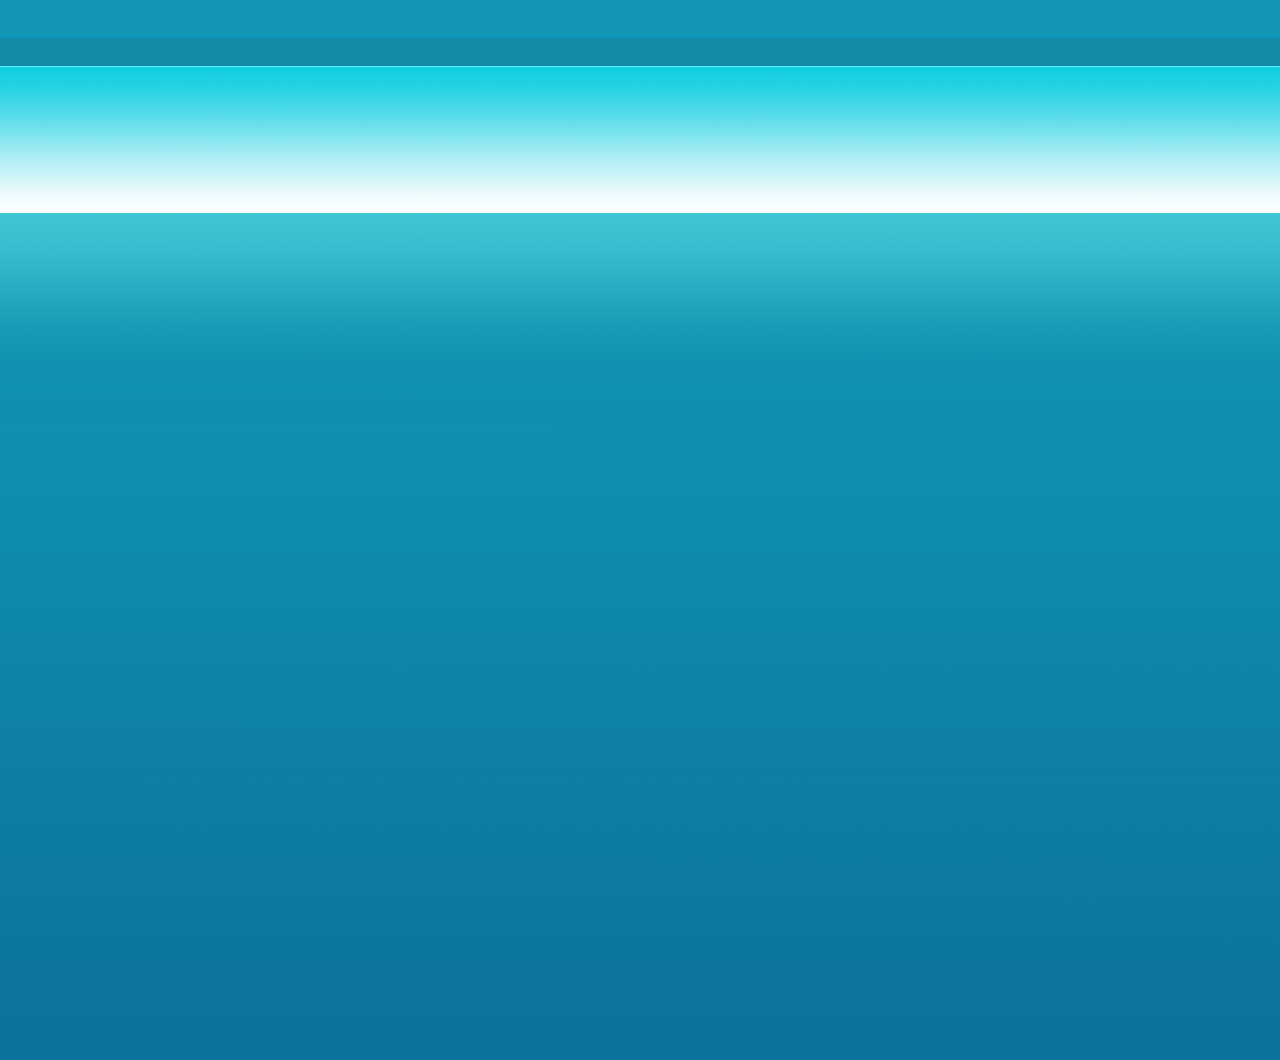
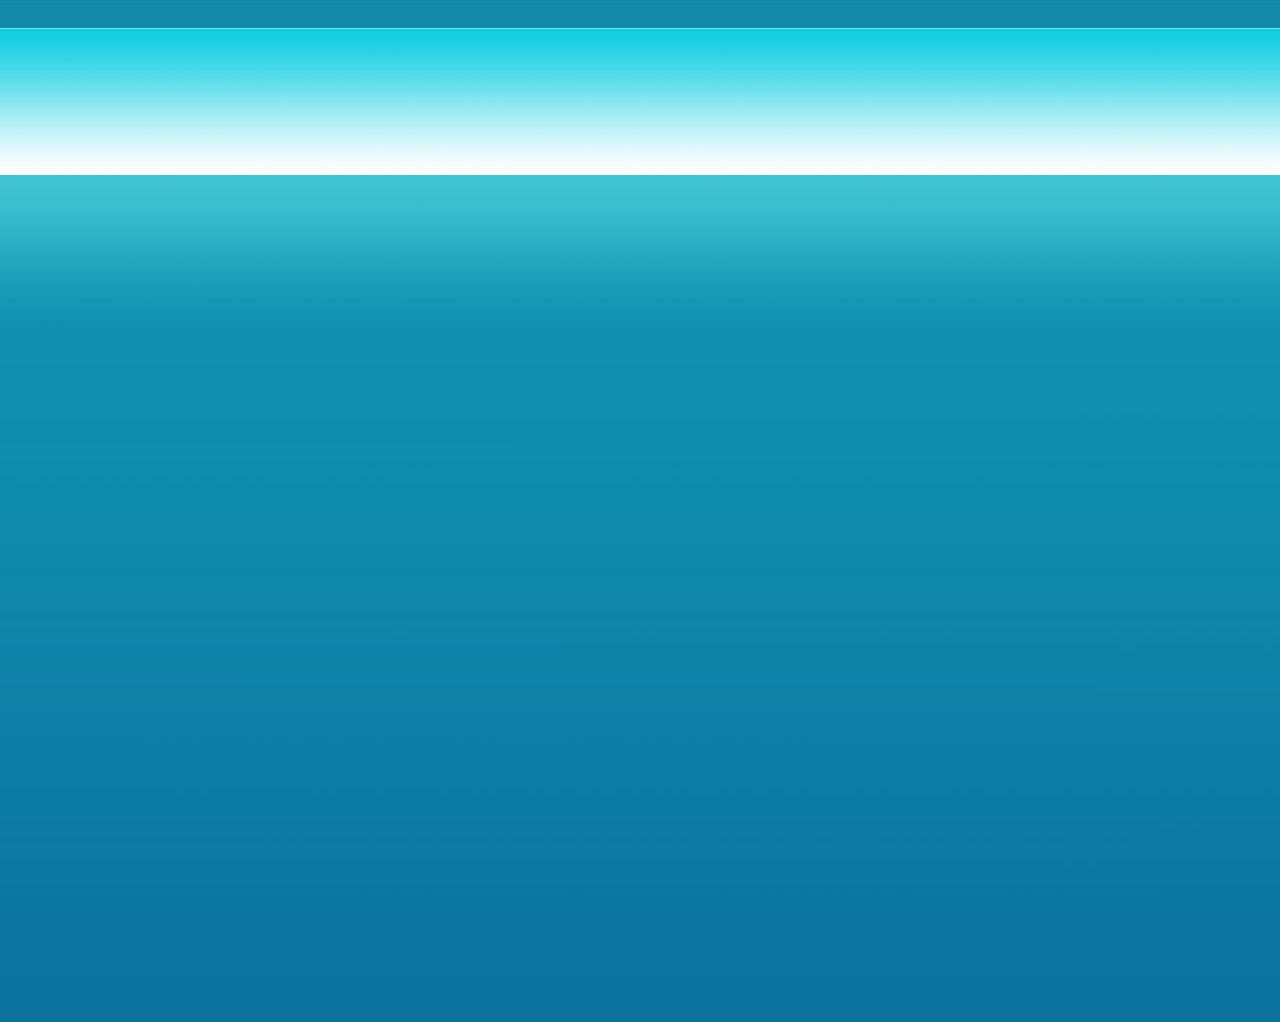
changed

Changed region(s): [[0.0, 0.0303, 1.0, 0.2123]]

diff --git a/css/style.css b/css/style.css
@@ -12,10 +12,9 @@ body {
 }
 
 .wrapper {
-	margin: 39px auto 0;
+	margin: 0 auto;
 	width: 998px; 
-	background-image: url(../img/white.jpg);
-	background-repeat: no-repeat;
+	background-color: #fff;
 	position: relative;
 	overflow: hidden;
 	border-bottom: 3px solid black;
@@ -26,7 +25,7 @@ body {
 /* HEADER */
 
 .header {
-	 padding: 10px 20px 0 0;
+	 padding: 9px 20px 0 0;
 	 color: #128aa7; 
 	 font-family: Tahoma, Arial, sans-serif;
 }
@@ -38,18 +37,26 @@ body {
 .contacts{
 	 list-style: none;
 	 float: right;
-	 padding-top: 10px 30px 33px 10px;
-	  text-decoration: none;
+	 padding: 10px 30px 33px 10px;
+	 text-decoration: none;
+	 font-size: 13px;
+	 color: #88b9c9;
+	 line-height: 18px;
+	 
 }
 
+.contacts span {
+	font-weight: bold;
+}
 .countries-menu {
 	clear: right;
 	display: inline-block;
 	float: right;
-	margin-top: 30px;
 	font-size: 10px;
 }
-
+li p {
+	text-align: center;
+}
 .countries-menu  li{
 	list-style: none;
 	display: inline-block;
@@ -65,9 +72,9 @@ body {
 /* CONTENT */
 
 .menu {
-	box-shadow: 0 0 10px rgba(0,0,0,1); /* Параметры тени */
-	filter: progid:DXImageTransform.Microsoft.dropshadow(offX=5, offY=5, color=#000000);
-	z-index: 1;
+	-webkit-box-shadow: 0px 5px 7px 0px rgba(0, 0, 0, 0.75);
+-moz-box-shadow:    0px 5px 7px 0px rgba(0, 0, 0, 0.75);
+box-shadow:         0px 5px 7px 0px rgba(0, 0, 0, 0.75);
 	background: -moz-linear-gradient(top, rgba(55,55,55,1) 0%, rgba(55,55,55,1) 100%);
 	background: -webkit-gradient(left top, left bottom, color-stop(0%, rgba(55,55,55,1)), color-stop(100%, rgba(55,55,55,1)));
 	background: -webkit-linear-gradient(top, rgba(55,55,55,1) 0%, rgba(55,55,55,1) 100%);
@@ -95,11 +102,23 @@ body {
 	filter: progid:DXImageTransform.Microsoft.gradient( startColorstr='#373737', endColorstr='#373737', GradientType=0 );	
 	line-height: 28px;
 	font-size: 14px;
-	padding: 0 25px;
+	padding: 0 35px 0 10px;
 }
 
+.content__menu>li:first-child{
+	padding-left:55px;
+}
 .menu__list{
-	position:relative;
+	position: relative;
+}
+
+.menu__list::after {
+	content:' ';
+	position: absolute;
+	border: 4px solid;
+	border-color: #fff transparent transparent  transparent ;
+	left: 80%;
+	top: 1em;
 }
 .menu__list li{
 	display: inline-block;
@@ -112,7 +131,7 @@ body {
 	
 }
 .menu__drop li{
-padding: 5px;
+padding: 2px 20px 5px 5px;
 }
 
 .menu__list:hover .menu__drop {
@@ -120,20 +139,28 @@ padding: 5px;
 	top: 100%;
 }
 
+
+
 h3 {
 	 color: #0f86a9;
 	 text-align: center;
 	 font-size: 18px;
 	 font-weight: 500;
+	 line-height: 30px;
 }
 .sidebar {
+	
+	margin-top: 5px;
 	clear: both;
-	background-image: url(../img/grey.jpg);
-	background-repeat: no-repeat;
-	background-size: cover; 
+	background-color: #edeef0;
 	width: 210px;
+	height: 544px;
 	float: left; 
 	padding: 5px 14px 14px 14px;
+	border-right: 1px solid #c7cacf;	
+    border-left: 1px solid #c7cacf;
+	line-height: 25px;
+	
 }
 
 .sidebar li{
@@ -142,16 +169,19 @@ h3 {
 .sidebar a{
 	 text-decoration: none;
 	 color: #424c43;
-	 font-size: 14px;
+	 font-size: 15px;
 }
 
 .news {
-	background-image: url(../img/grey.jpg);
-	background-repeat: no-repeat;
-	background-size: cover; 
+	margin-top: 5px;
+	background-color: #edeef0;
 	width: 210px;
+	height: 544px;
 	float: right; 
 	padding: 5px 14px 14px 14px;
+	border-right: 1px solid #c7cacf;	
+    border-left: 1px solid #c7cacf;
+	line-height: 25px;
 }
 .news li{
 	list-style: none;
@@ -160,7 +190,7 @@ h3 {
 .news a{
 	 text-decoration: none;
 	 color: #424c43;
-	 font-size: 14px;
+	 font-size: 15px;
 }
 
 /* END of CONTENT */
@@ -179,5 +209,5 @@ color: #fff;
 
 position: relative;
 top: 5px;
-padding-bottom: 10px;
+padding-bottom: 15px;
 }

diff --git a/index.html b/index.html
@@ -19,7 +19,7 @@
    
    
     <ul class="contacts">
-		 <li>Наши контакты:</li>
+		 <li><span>Наши контакты:</span></li>
 		 <li>+9-098-765-4321</li>
 		 <li>+9-0123-456-890</li>
 		 <li>info@asia-holidays.com</li>
@@ -109,7 +109,7 @@
 		</ul>
  </div>
       
-          
+      
    <!--Левая серая колонка-->
 	  <div class="sidebar">
 		   <h3>Информация</h3>
@@ -150,8 +150,8 @@
 				<li><a href="#">Lorem ipsum dolor sit amet</a></li>
 			</ul>
    	</div>
-      
-</div>
+</div>      
+
      
    <div class="footer">   <!--footer -->
     <p>Copyright &copy; asia-holidays.com. 2010</p>
